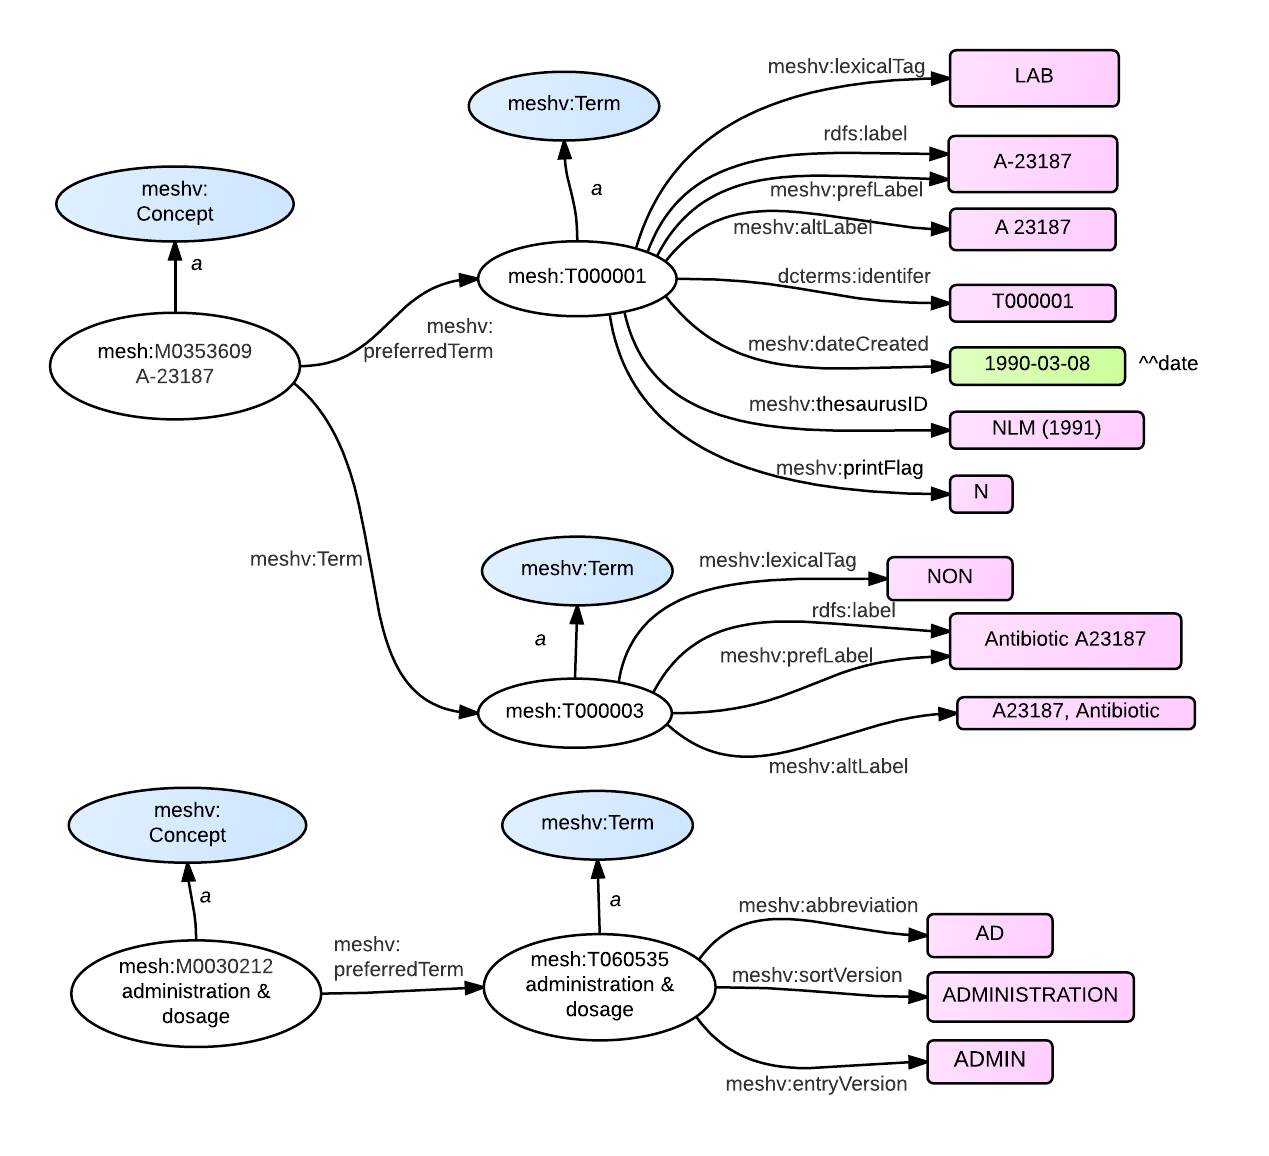
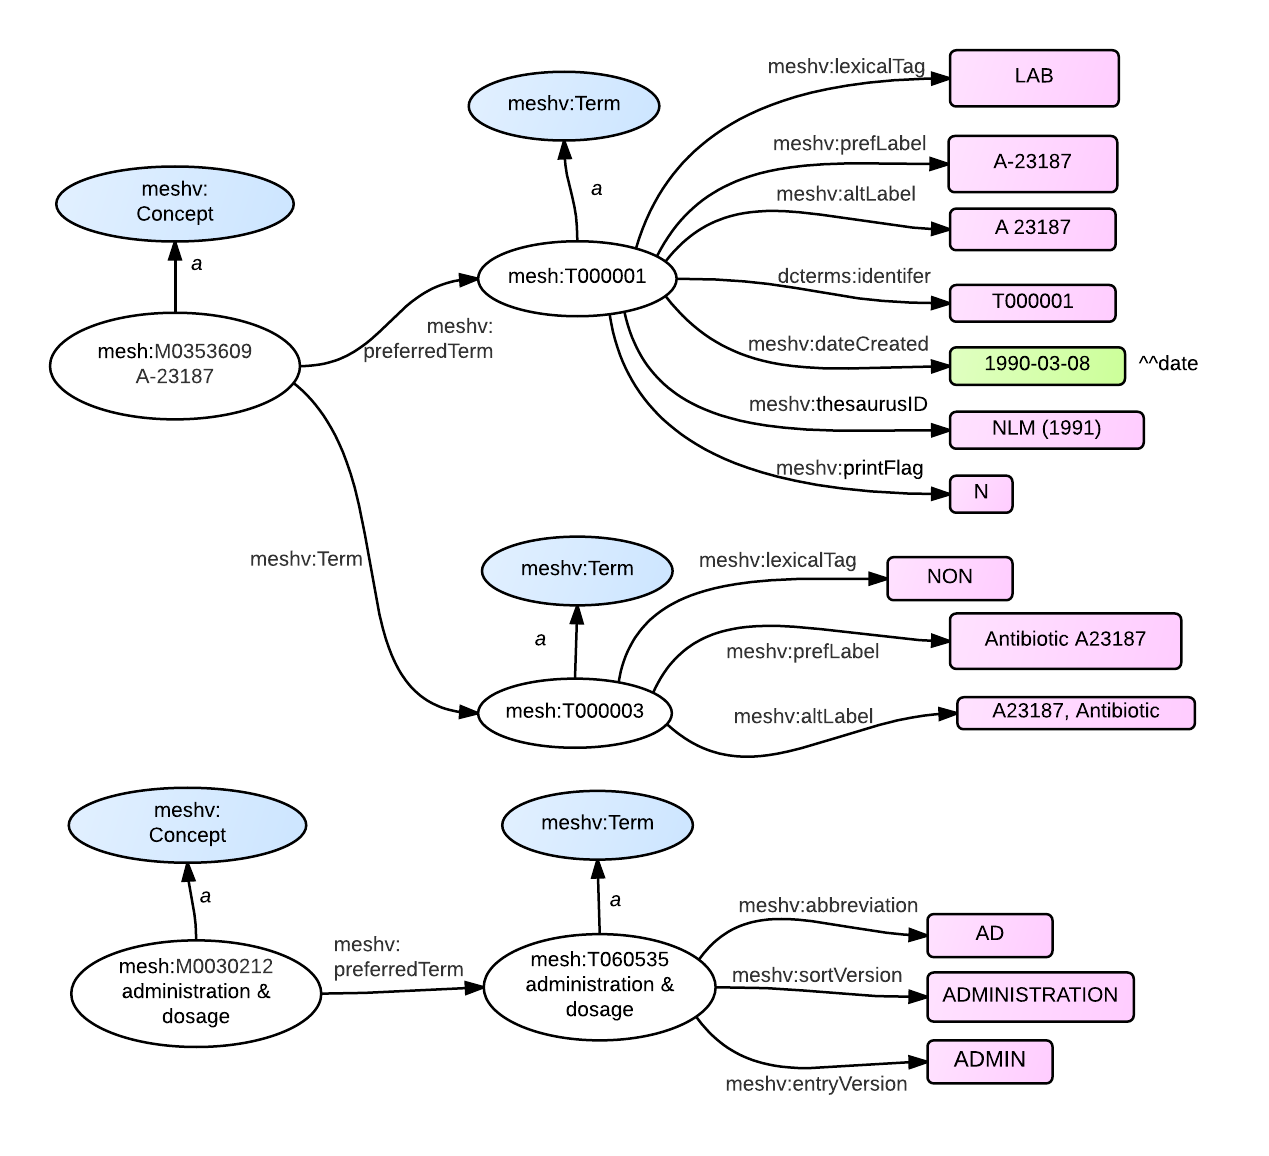
#85 - get rid of rdfs:label on terms; make meshv:prefLabel and meshv:altLabel subproperties of rdfs:label; make meshv:preferredTerm a subproperty of meshv:term

Changed region(s): [[0.5225, 0.4983, 0.7683, 0.6228], [0.5225, 0.0934, 0.7683, 0.218], [0.6147, 0.654, 0.7069, 0.6851]]

diff --git a/terms.md b/terms.md
@@ -82,7 +82,6 @@ mesh:M0353609 rdf:type  meshv:Concept ;
               meshv:preferredTerm mesh:T000001 .
 mesh:T000001  rdf:type  meshv:Term ;
               meshv:lexicalTag  "LAB" ;
-              rdfs:label  "A-23187" ;
               meshv:prefLabel  "A-23187" ;
               meshv:altLabel "A 23187" .
               dcterms:identifier  "T000001" ;
@@ -91,7 +90,6 @@ mesh:T000001  rdf:type  meshv:Term ;
               meshv:printFlag "N" ;
 mesh:T000003  rdf:type  meshv:Term ;
               meshv:lexicalTag  "NON" ;
-              rdfs:label  "Antibiotic A23187" ;
               meshv:prefLabel  "Antibiotic A23187" ;
               meshv:altLabel "A23187, Antibiotic" .
               dcterms:identifier  "T000003" ;
@@ -101,7 +99,7 @@ mesh:M0030212 rdf:type  meshv:Concept ;
               rdfs:label  "administration & dosage" ;
               meshv:preferredTerm mesh:T060555 .
 mesh:T060555  rdf:type  meshv:Term ;
-              rdfs:label  "administration & dosage" ;
+              meshv:prefLabel  "administration & dosage" ;
               meshv:abbreviation  "AD" ;
               meshv:sortVersion "ADMINISTRATION A" ;
               meshv:entryVersion  "ADMIN" ;
